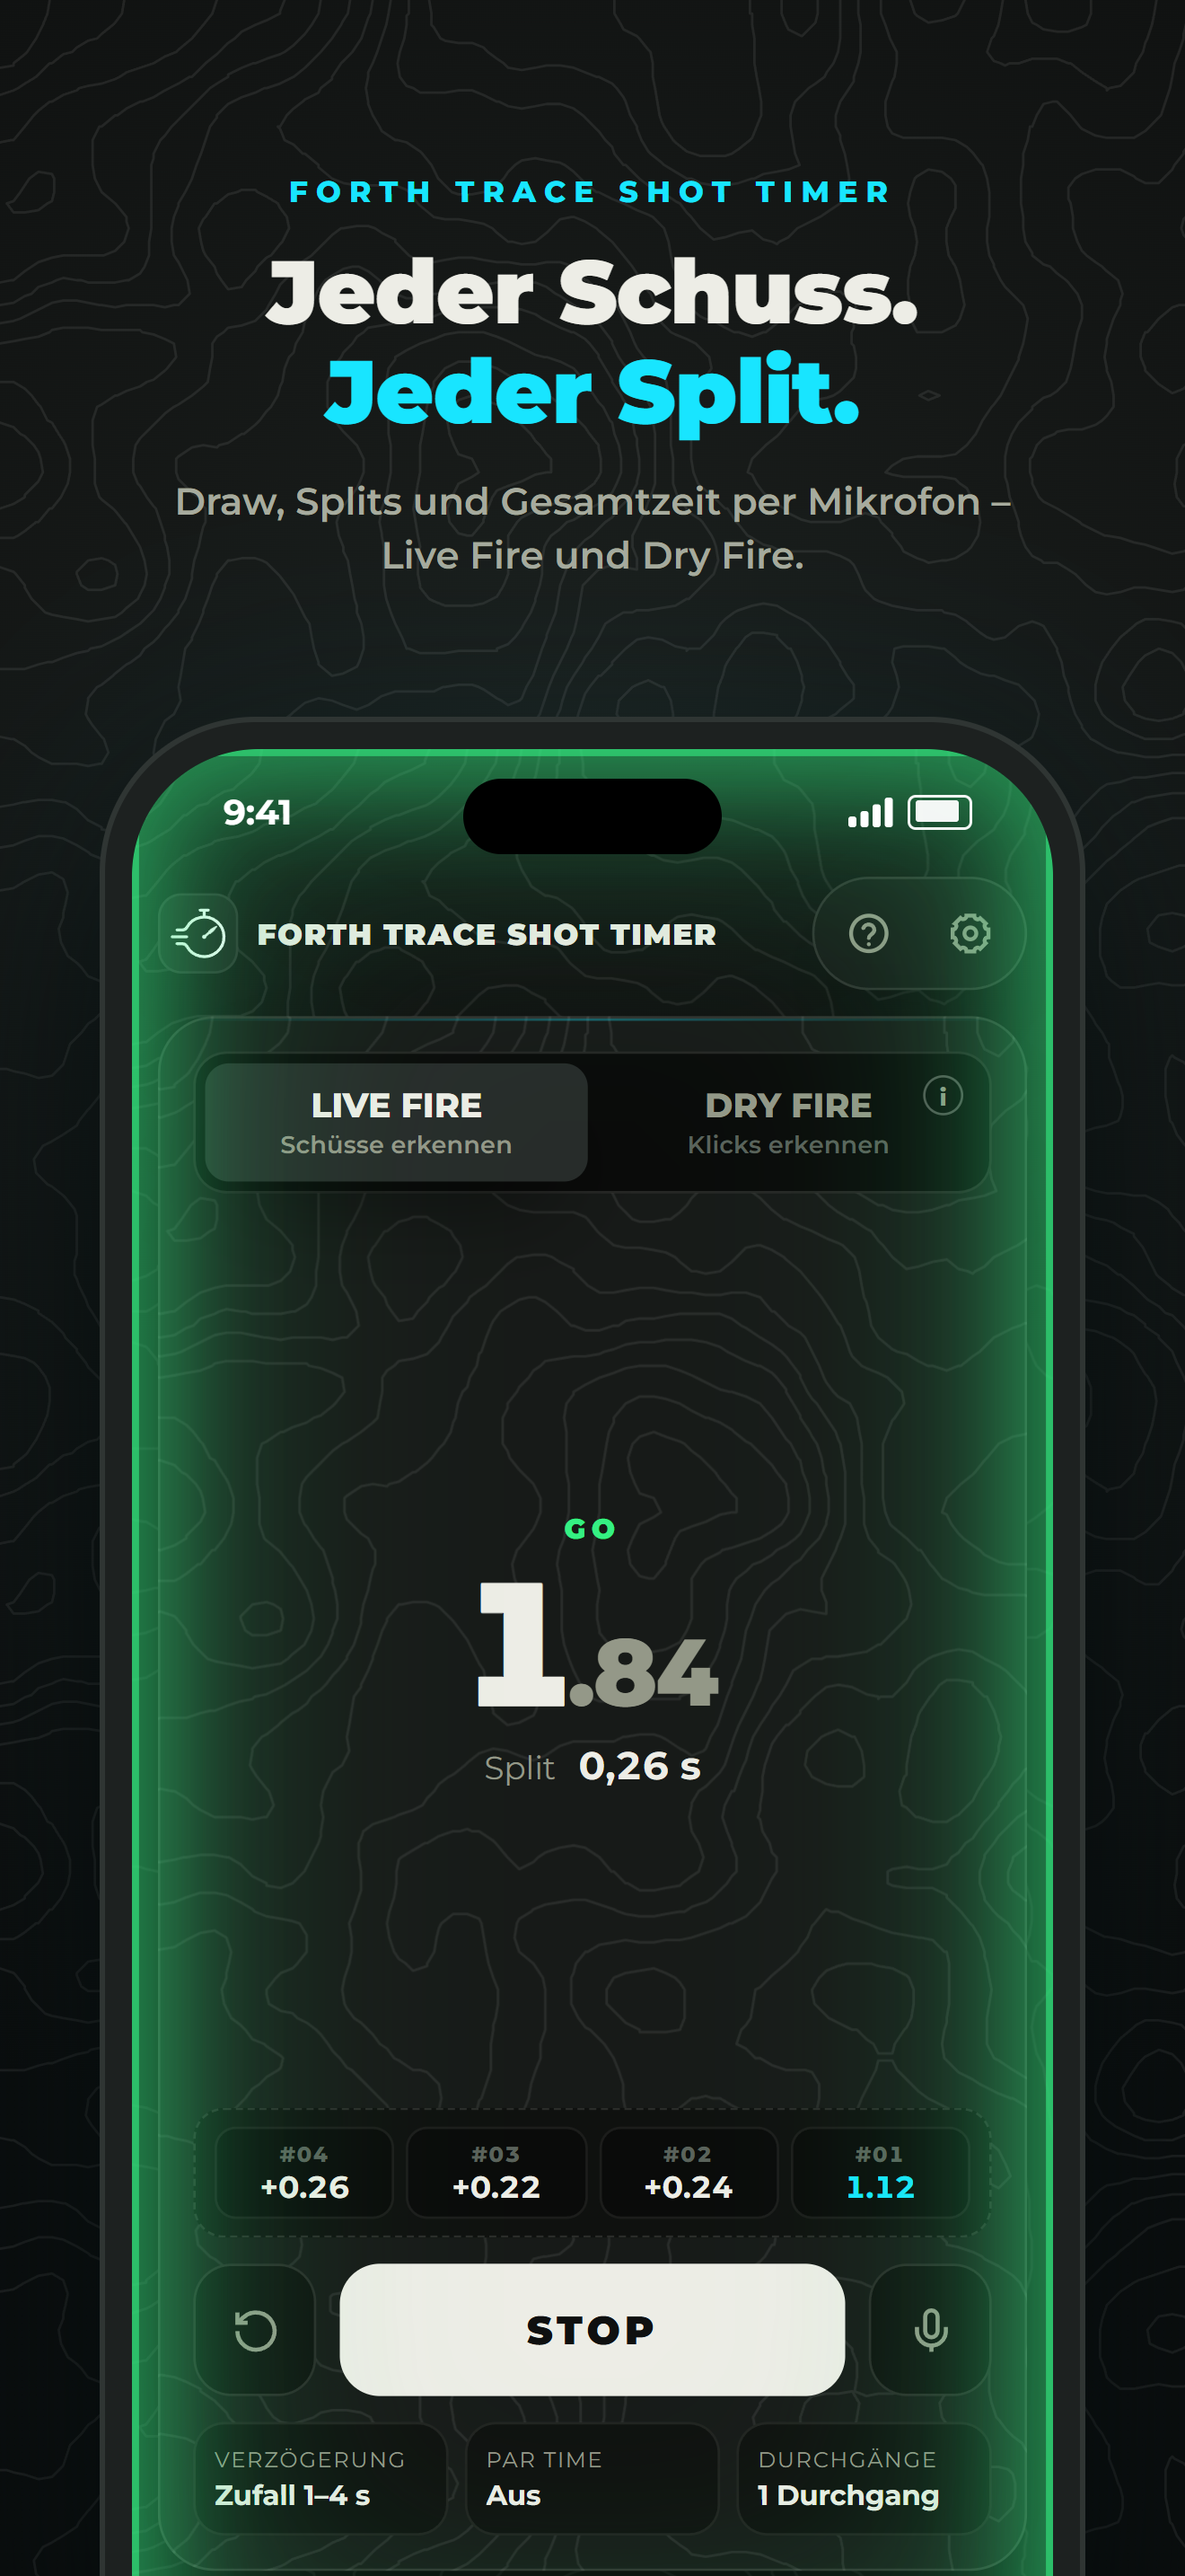
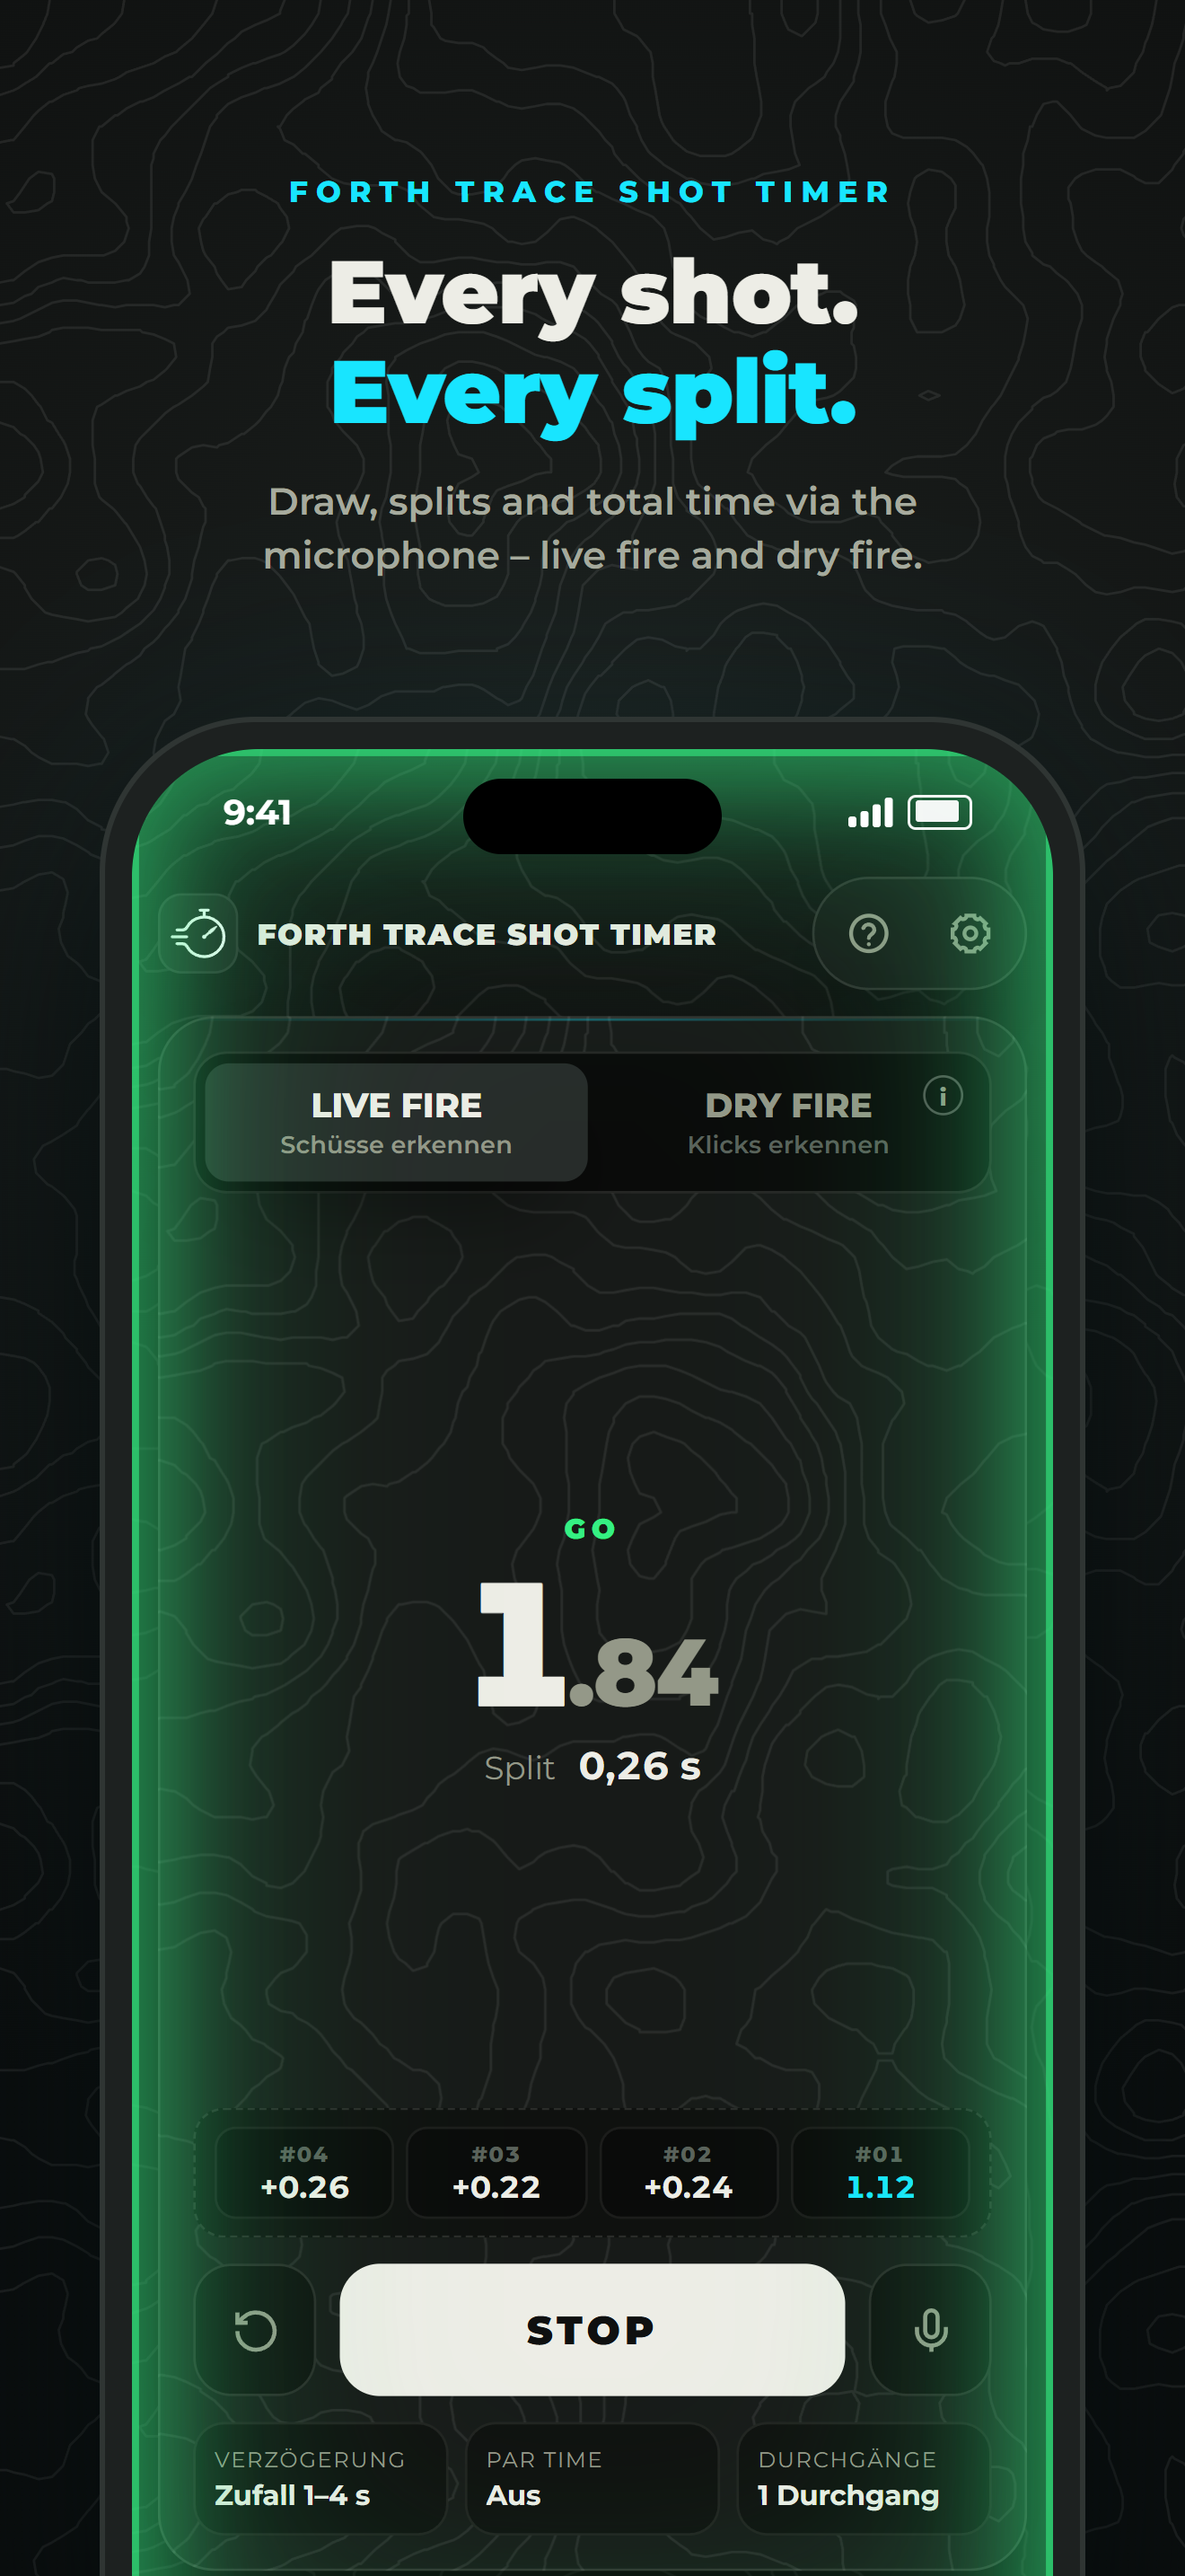
Store-Screenshots: Überschriften immer auf Englisch

Changed region(s): [[0.1553, 0.0931, 0.8386, 0.2172]]

diff --git a/store/shots.html b/store/shots.html
@@ -60,7 +60,7 @@
       ['Hit Factor<br><em>live</em> at the range', 'Enter time and hit zones – the results update instantly.'],
       ['Your training<br><em>history</em>', 'Every run is saved. No account, everything stays on your iPhone.']
     ]
-  }[LANG];
+  }.en; // Überschriften immer auf Englisch; die App im Rahmen zeigt die jeweilige Sprache.
   document.getElementById('title').innerHTML = TEXT[SHOT - 1][0];
   document.getElementById('sub').textContent = TEXT[SHOT - 1][1];
 
